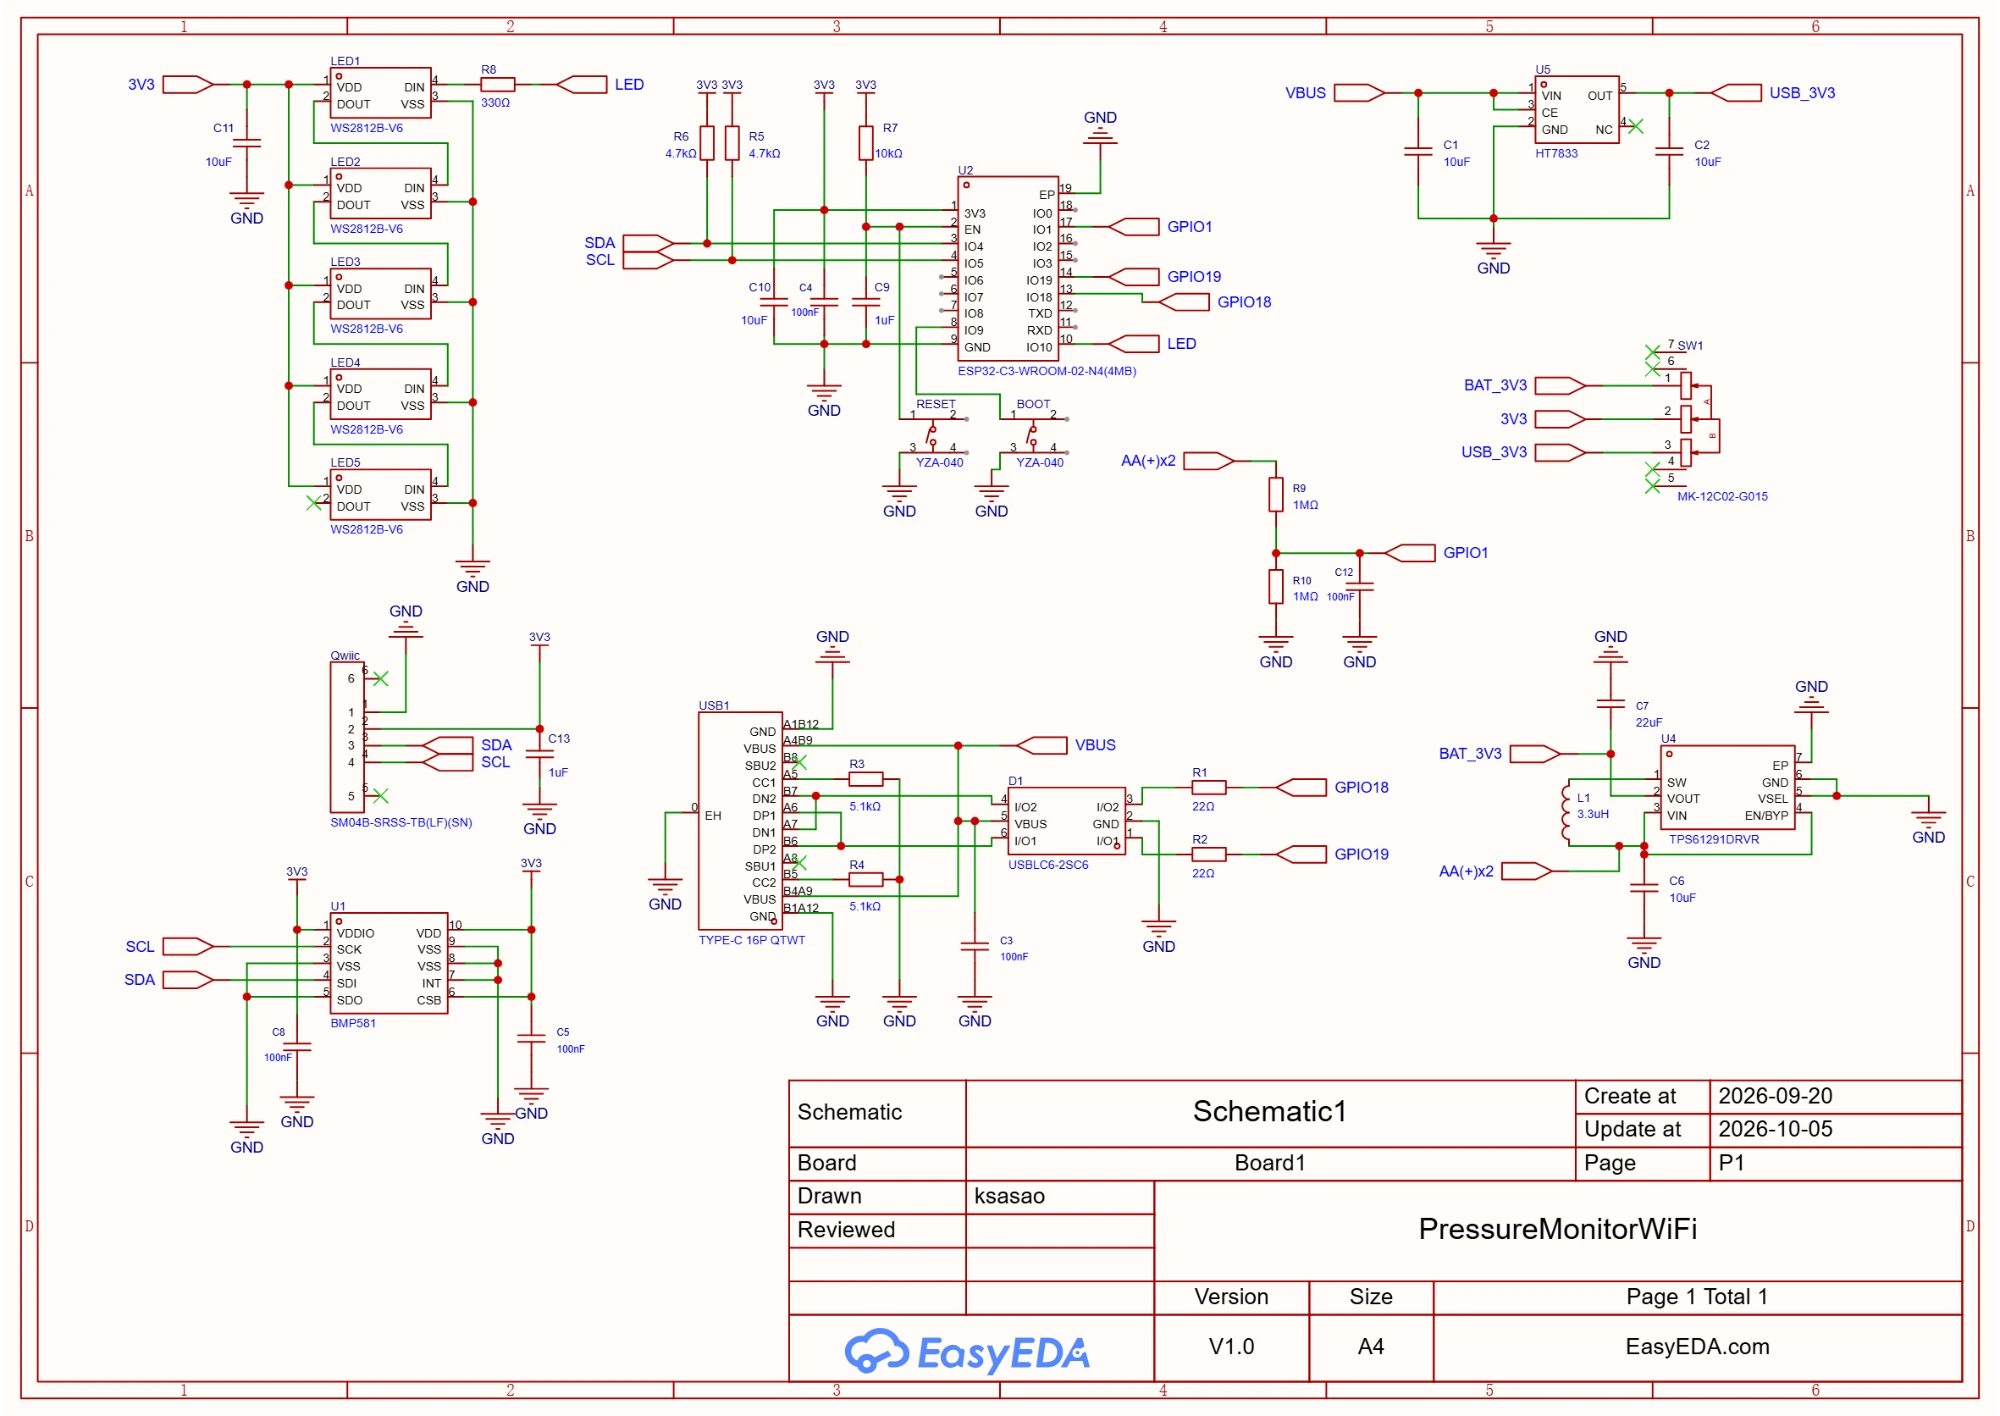
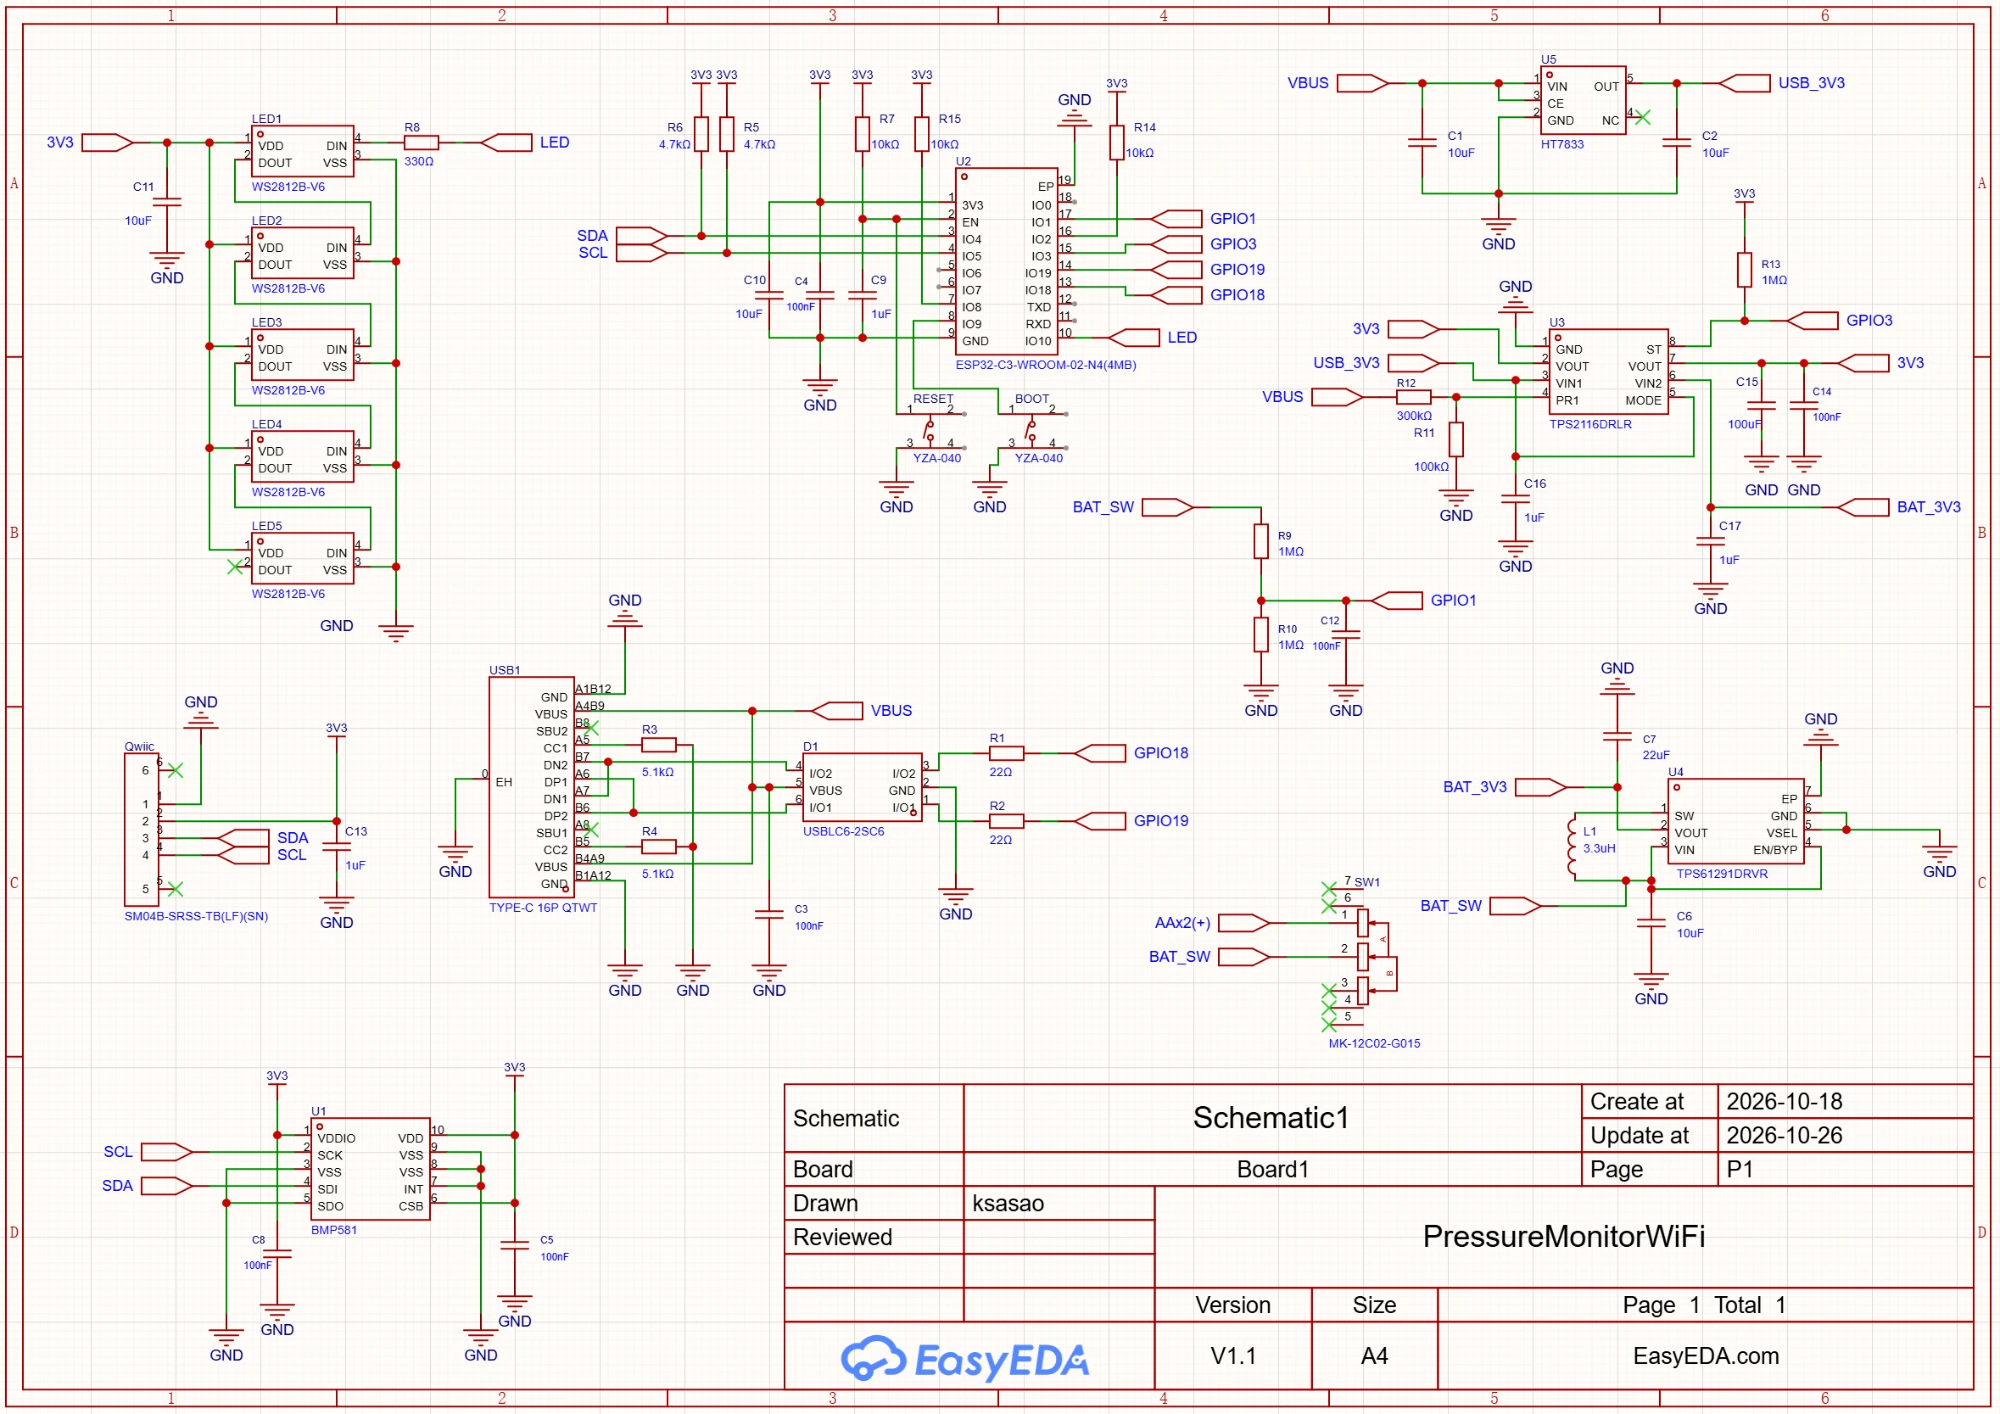
docs(esp32c3-bmp581): 回路図を V1.1 にし、ページを今の基板とファームウェアに合わせる
- 回路図を 2026-10-26 版 (V1.1) に差し替え、V1.0 を schematic-v1.0.webp として残す
- 回路の構成、電源、制約の節を、TPS2116 による自動の切り替えと SW1 (電池の電源スイッチ) に合わせて書き直す
- 内容物と仕様の節を追加
- 基板の中への記録、複数台の表示、音 (Modulino Buzzer)、ドライブモードの対数の目盛りの説明を追加
- FAQ、firmware と hardware の README の電源と電池電圧の記載を V1.1 に合わせる

Changed region(s): [[0.0, 0.0, 1.0, 0.9958], [0.248, 0.8713, 0.279, 0.9335], [0.093, 0.4979, 0.124, 0.529]]

diff --git a/docs/esp32c3-bmp581/index.md b/docs/esp32c3-bmp581/index.md
@@ -13,6 +13,25 @@ Bosch製の高精度気圧センサBMP581を搭載し、気圧の微小な変化
 
 よくあるご質問は、[こちら](faq/)にまとめています。
 
+## 内容物
+
+- 本体基板 × 1
+
+単三電池と USB-C ケーブルは付属しません。別途ご用意ください。
+
+## 仕様
+
+| 項目 | 内容 |
+|---|---|
+| マイコン | ESP32-C3-WROOM-02-N4（Wi-Fi / Bluetooth LE、技適取得済みモジュール） |
+| 気圧センサ | Bosch BMP581（I²C） |
+| LED | フルカラー LED（WS2812B-V6）× 5 |
+| 拡張コネクタ | Qwiic（I²C、3.3V） |
+| 電源 | 単三電池 2本（電源スイッチ付き）、または USB-C。USB-C をつなぐと、自動で USB からの給電に切り替わる |
+| 消費電流 | LED が消えているときに約 1mA |
+| 記録 | 基板の中のフラッシュに記録できる。1/30 秒間隔で約 16 時間、1 秒間隔で約 68 時間、30 秒間隔で約 84 日 |
+| 基板サイズ | 74 × 42 × 19 mm |
+
 ## ファームウェアの書き込み
 
 パソコンの Chrome / Edge から、基板にファームウェアを書き込めます（Arduino IDE は不要です）。基板を USB-C でパソコンにつなぎ、書き込みツールを開いて、「接続」→「書き込み開始」を押すだけです。
@@ -25,20 +44,24 @@ Bosch製の高精度気圧センサBMP581を搭載し、気圧の微小な変化
 
 [![回路図](../assets/images/esp32c3-bmp581/schematic.webp)](../assets/images/esp32c3-bmp581/schematic.webp)
 
-2026-10-05 版。
+2026-10-26 版（V1.1）。
 
 ### 回路の構成
 
 | 部分 | 部品 | 内容 |
 |---|---|---|
-| マイコン | U2（ESP32-C3-WROOM-02-N4） | RESET ボタン（EN）と BOOT ボタン（IO9） |
+| マイコン | U2（ESP32-C3-WROOM-02-N4） | RESET ボタン（EN）と BOOT ボタン（IO9）。EN、IO2、IO8 を 10kΩ（R7、R14、R15）でプルアップ |
 | 気圧センサ | U1（BMP581） | I2C、アドレス 0x46（SDO=GND）。SDA は IO4、SCL は IO5 |
 | LED | LED1〜LED5（WS2812B-V6） | データは IO10 から R8 330Ω を通して LED1 へ。5 個がデイジーチェーン |
-| USB | USB1（USB-C）、U5（HT7833） | VBUS を 3.3V にする。D-/D+ は IO18/IO19 |
-| 電池 | U4（TPS61291）、単三 2 本 | 昇圧して 3.3V にする |
-| 電源の切り替え | SW1 | 3V3 を、電池（BAT_3V3）と USB（USB_3V3）のどちらから取るかを選ぶスライドスイッチ |
-| 電池電圧 | R9、R10、C12 | 電池電圧を 1/2 に分圧して IO1 へ（ADC で読める） |
+| USB | USB1（USB-C）、U5（HT7833）、D1（USBLC6-2SC6） | VBUS を 3.3V（USB_3V3）にする。D-/D+ は IO18/IO19（D1 で静電気から保護） |
+| 電源スイッチ | SW1 | 電池（AA(+)x2）の入り切り。スイッチの後ろが BAT_SW |
+| 電池 | U4（TPS61291）、単三 2 本 | BAT_SW を昇圧して 3.3V（BAT_3V3）にする |
+| 電源の切り替え | U3（TPS2116） | USB があるときは USB_3V3、ないときは BAT_3V3 を、自動で選んで 3V3 にする（USB を優先）。VBUS を R12、R11 で分圧して PR1 に入れ、VBUS が約 4.0V を下回ると電池に切り替える |
+| 電源の状態 | U3 の ST、R13 | どちらから給電しているかを IO3 へ（R13 1MΩ でプルアップ）。USB のときは High、電池のときは Low |
+| 電池電圧 | R9、R10、C12 | BAT_SW（SW1 の後ろ）の電圧を 1/2 に分圧して IO1 へ（ADC で読める）。SW1 が OFF のときは、電池を切り離した状態の値になる |
 | Qwiic | Qwiic コネクタ | I2C バス（3V3、SDA、SCL）に接続。他の I2C 機器をつなげる |
+
+2026-10-05 版（V1.0）の基板では、SW1 が、3V3 を電池と USB のどちらから取るかを選ぶスイッチでした（U3 はありません）。V1.0 の回路図は[こちら](../assets/images/esp32c3-bmp581/schematic-v1.0.webp)です。
 
 ## ファームウェア
 
@@ -69,7 +92,7 @@ BOOT ボタンを短く押して、4 種類のモードを切り替えます。
 | 番号 | モード | 内容 |
 |---|---|---|
 | 1 | 標準（既定） | 気圧の変化を表示する。細かい動き向け |
-| 2 | ドライブ | 気圧の変化を表示する。車や電車での移動（大きな高さの変化）向け |
+| 2 | ドライブ | 気圧の変化を表示する。車や電車での移動（大きな高さの変化）向け。色の目盛りは対数で、歩くときの数 Pa の変化から、新幹線がトンネルを出入りするときの数百 Pa の変化（約 4〜400 Pa）まで、色の違いで見分けられる |
 | 3 | カスタム | 気圧の変化を表示する。感度をスマホから変更できる |
 | 4 | 固定色 | 全ての LED が、同じ色（HSV で自由に設定）で点灯する。気圧の変化に合わせて、明るさを変えることもできる |
 
@@ -99,16 +122,52 @@ BOOT ボタンの短押しと長押しは、ボタンを離したときに動作
 
 設定モードの間は、LED5 が状態表示になります（暗い水色は接続待ち、緑は接続中）。ページを閉じて（スマホの画面が消えて）から 10 分たつと、自動で通常モードに戻ります。変更できる項目や、詳しい使い方は、[firmware の README](https://github.com/ksasao/pressure-monitor/tree/main/firmware/esp32c3-bmp581#設定モードwi-fi)をご覧ください。
 
+### 基板の中への記録
+
+気圧の値を、基板の中（フラッシュ）に記録して、あとから CSV で保存できます。
+
+1. 設定モードに入り、最初のページの「● 記録」を押します
+2. 記録の間隔（1/30 秒、1 秒、30 秒）を選びます。1 秒と 30 秒は、その間の平均を記録します
+3. 「Wi-Fi のまま記録する」か、「記録して Wi-Fi をオフにする（省電力）」を選びます。後者では、基板が通常モードに戻って、記録を続けます
+4. 保存するときは、設定モードに入って、同じページの「CSV 保存」を押します。止めるときは「■ 停止」を押します
+
+| 項目 | 内容 |
+|---|---|
+| 記録できる時間 | 1/30 秒で約 16 時間、1 秒で約 68 時間、30 秒で約 84 日。いっぱいになると、自動で止まります |
+| 記録中の表示 | LED5 が、5 秒ごとに、短く赤く点滅します。いっぱいになると、黄色で 2 回点滅します |
+| 電源が切れたとき | それまでの記録は残ります（1/30 秒の記録では、最後の 8 秒ほどが失われることがあります） |
+| 次の記録 | 新しく記録を始めると、前の記録は消えます |
+
+USB でパソコンにつないで、[`tools/serial-command.py`](https://github.com/ksasao/pressure-monitor/tree/main/tools) から、記録の開始・停止・保存をすることもできます。iPhone で保存するときの手順や、CSV の列の内容は、[firmware の README](https://github.com/ksasao/pressure-monitor/tree/main/firmware/esp32c3-bmp581#気圧の表示最初に開くページ)をご覧ください。
+
+### 複数台の表示
+
+設定モードで、役割を「送信」と「ハブ」に設定すると、複数台の気圧を、ESP-NOW で 1 台のハブに集めて、スマホのブラウザで並べて表示し、記録できます。アプリのインストールは不要です。
+
+送信とハブは、無線を使い続けるため、省電力の待機（ライトスリープ）に入らず、電池の持ちが短くなります。ハブは、USB からの給電をおすすめします。使い方は、[firmware の README](https://github.com/ksasao/pressure-monitor/tree/main/firmware/esp32c3-bmp581#複数台の表示esp-now)をご覧ください。
+
+### 音（Modulino Buzzer）
+
+Qwiic コネクタに [Arduino Modulino Buzzer](https://docs.arduino.cc/hardware/modulino-buzzer/)（ABX00108、別売）をつなぐと、LED1 の色に合わせて、音のフレーズを鳴らします。気圧が上がるときは明るい響き、下がるときは暗い響きで、変化が大きく、長く続くほど、にぎやかになります。音色と音の高さは、設定モードで選べます。つながっていなければ、何もしません。
+
 ### 電源
 
-単三電池 2 本、または USB-C から給電できます。SW1 で切り替えます。
+単三電池 2 本、または USB-C から給電できます。
+
+| 使い方 | 操作 |
+|---|---|
+| 電池で使う | SW1 を ON にします |
+| USB-C で使う | USB-C をつなぐと、SW1 の位置にかかわらず、自動で USB から給電します。電池を入れていないときや、USB だけで長く使うときは、SW1 を OFF にしてください |
+| 電池で動かしながら USB-C をつなぐ（SW1 が ON） | USB に切り替わります。USB を抜くと、自動で電池に戻ります |
+
+SW1 が ON のままだと、USB で動いている間も、昇圧回路（U4）が動いているため、電池をわずかに消費します。
 
 **USB-C にモバイルバッテリーをつなぐ場合は、「低電流モード」（微弱電流モード、IoT モードなどの名称）に対応した製品を推奨します。** モバイルバッテリーの多くは、出力電流が小さい状態が続くと、負荷がつながっていないとみなして、出力を止めます。本機は、LED が消えているとき、省電力のために電流が約 1mA まで下がるので、低電流モードに対応していない製品では、数分で給電が止まることがあります。
 
 ## 制約
 
-- 電池と USB のどちらで動いているかは、回路の構成上、ソフトウェアでは判別できません。
-- 電池電圧は IO1 で読むことができます。ファームウェアは、1 分に 1 回測り、シリアルの CSV の最後の列に出力します。
+- 電池と USB のどちらで動いているかは、IO3（U3 の ST）で判別できます。ただし、今のファームウェアは、この信号を使っていません（V1.0 の基板では、回路の構成上、判別できません）。
+- 電池電圧は IO1 で読むことができます。ファームウェアは、1 分に 1 回測り、CSV の最後の列（`battery_mV`）に出力します。SW1 が OFF のときは、電池が入っていても、数百 mV の小さな値になります（実測で約 0.3V）。
 - BMP581 は温度補正済みの気圧を出力します。起動直後は、センサの自己発熱で温度が上がり続けますが、ハイパスフィルタがゆっくりした変化を除くので、表示への影響は小さいです。
 
 ## お問い合わせ

diff --git a/hardware/esp32c3-bmp581/README.md b/hardware/esp32c3-bmp581/README.md
@@ -4,6 +4,9 @@ ESP32-C3 + BMP581 版の回路図・基板データを置く場所です。
 
 回路図の画像は GitHub Pages の資料と共用で、次の場所にあります。
 
-- [`docs/assets/images/esp32c3-bmp581/schematic.webp`](../../docs/assets/images/esp32c3-bmp581/schematic.webp)（2026-10-05 版）
+- [`docs/assets/images/esp32c3-bmp581/schematic.webp`](../../docs/assets/images/esp32c3-bmp581/schematic.webp)（2026-10-26 版、V1.1）
+- [`docs/assets/images/esp32c3-bmp581/schematic-v1.0.webp`](../../docs/assets/images/esp32c3-bmp581/schematic-v1.0.webp)（2026-10-05 版、V1.0）
+
+V1.1 では、電源の切り替えを TPS2116（U3）による自動の切り替えにし、SW1 を電池の電源スイッチにしました。どちらから給電しているかは、IO3 で読めます。
 
 EasyEDA のプロジェクトファイル、BOM、ガーバーなどの製造データも、このフォルダに置く想定です。
